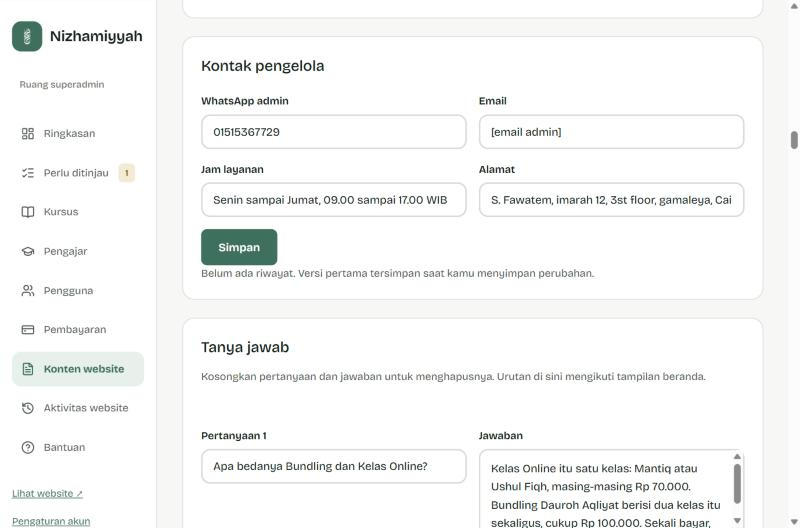
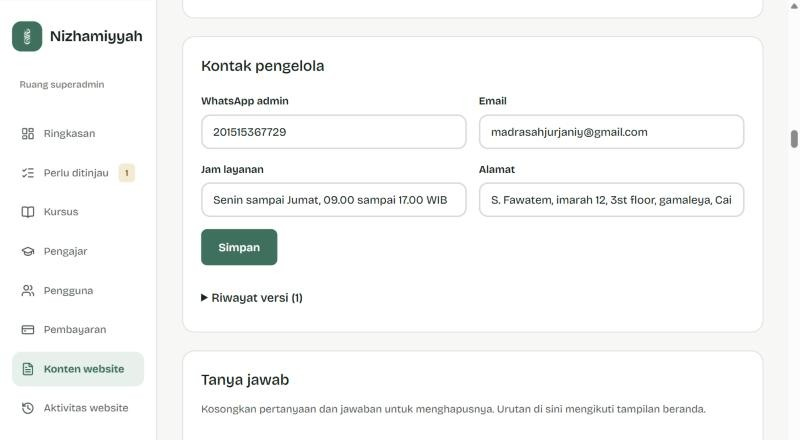
Tutorial dirapikan: bagian dikelompokkan per topik, daftar isi menempel dengan penanda posisi, pintasan tugas, langkah bernomor, gambar bisa diperbesar, screenshot diperbarui

diff --git a/web/src/styles/tutorial.css b/web/src/styles/tutorial.css
@@ -1,27 +1,94 @@
-.tutorial {padding-top:24px; padding-bottom:64px}
-.tutorial-gate {max-width:420px; margin:12vh auto 0; display:grid; gap:12px}
-.tutorial-gate h1 {font-size:30px; line-height:1.2}
+/* Gerbang PIN */
+.tutorial-gate {min-height:100dvh; display:grid; place-items:center; padding-top:24px; padding-bottom:24px}
+.tutorial-gate > .card {width:100%; max-width:420px; display:grid; gap:12px}
+.tutorial-gate-icon {width:46px; height:46px; display:grid; place-items:center; border-radius:12px; background:var(--brand-soft); color:var(--brand)}
+.tutorial-gate h1 {font-size:28px; line-height:1.2}
 .tutorial-gate-form {display:grid; gap:14px; margin-top:4px}
-.tutorial-wrap {max-width:820px; margin:0 auto; display:grid; gap:20px; justify-items:stretch}
-.tutorial-wrap > .btn {justify-self:start}
-.tutorial-head {display:grid; gap:12px; padding:12px 0}
-.tutorial-head h1 {font-size:clamp(30px,5vw,42px); line-height:1.15}
-.tutorial-head p:not(.eyebrow) {font-size:17px; line-height:1.65}
-.tutorial-toc h2 {margin-bottom:12px}
-.tutorial-toc ol {margin:0; padding-left:24px; list-style:decimal; columns:2; column-gap:32px}
-.tutorial-toc li {display:list-item; padding:5px 0; break-inside:avoid}
-.tutorial-toc a {text-decoration:underline; text-underline-offset:3px}
-.tutorial-guide {display:grid; gap:12px; justify-items:stretch; scroll-margin-top:16px}
-.tutorial-guide > .btn {justify-self:start}
-.tutorial-guide > p:not(.eyebrow), .tutorial-steps p {line-height:1.65}
-.tutorial-steps {margin:4px 0 8px; padding-left:24px; display:grid; gap:16px; list-style:decimal}
-.tutorial-steps li {display:list-item; min-width:0}
-.tutorial-note {line-height:1.6}
-.tutorial-end {padding:8px 0; line-height:1.65}
-@media (max-width:640px) {
-  .tutorial-toc ol {columns:1}
+
+/* Pembuka */
+.tutorial {padding-bottom:72px}
+.tutorial-hero {background:#1e715c; color:#fff; padding-top:24px; padding-bottom:36px}
+.tutorial-hero-in {max-width:1180px; margin:0 auto}
+.tutorial-back {display:inline-flex; align-items:center; gap:8px; min-height:44px; color:#e5f0e8; text-decoration:none; font-size:14px; font-weight:600}
+.tutorial-back:hover {color:#fff; text-decoration:underline; text-underline-offset:3px}
+.tutorial-eyebrow {margin-top:18px; font-size:13px; font-weight:700; letter-spacing:.12em; text-transform:uppercase; color:#f6e7b4}
+.tutorial-hero h1 {margin-top:8px; color:#fff; font-size:clamp(32px,5vw,48px); line-height:1.1; letter-spacing:-.02em}
+.tutorial-lead {margin-top:14px; max-width:62ch; font-size:17px; line-height:1.65; color:#e5f0e8}
+.tutorial-quick {margin-top:26px; display:grid; grid-template-columns:repeat(3,minmax(0,1fr)); gap:12px}
+.tutorial-quick a {position:relative; display:flex; flex-direction:column; gap:6px; padding:18px 44px 18px 18px; border-radius:14px; background:#fff; color:var(--ink); text-decoration:none; transition:transform .15s}
+.tutorial-quick a:hover {transform:translateY(-2px)}
+.tutorial-quick b {font-size:15px; line-height:1.35}
+.tutorial-quick span {font-size:13px; line-height:1.5; color:var(--muted-text)}
+.tutorial-quick svg {position:absolute; right:16px; top:18px; color:var(--brand)}
+
+/* Susunan halaman */
+.tutorial-layout {max-width:1180px; margin:0 auto; padding-top:32px; display:grid; grid-template-columns:250px minmax(0,1fr); gap:40px; align-items:start; box-sizing:content-box}
+.tutorial-side {position:sticky; top:20px; max-height:calc(100dvh - 40px); overflow-y:auto}
+.tutorial-body {display:grid; gap:44px; min-width:0}
+.tutorial-legend {display:flex; gap:12px; align-items:flex-start; padding:14px 16px; border:1px solid var(--line); border-radius:12px; background:#fff; font-size:14px; line-height:1.55}
+.tutorial-legend-box {flex:none; width:24px; height:18px; margin-top:2px; border:2.5px solid #E5484D; border-radius:5px}
+
+/* Daftar isi */
+.tn-list {display:grid; gap:18px}
+.tn-group {margin-bottom:4px; font-size:12px; font-weight:700; letter-spacing:.06em; text-transform:uppercase; color:var(--muted-text)}
+.tn-list ul {list-style:none; margin:0; padding:0; display:grid; gap:1px}
+.tn-list a {display:block; padding:7px 10px; border-radius:8px; color:var(--ink); font-size:14px; line-height:1.35; text-decoration:none}
+.tn-list a:hover {background:var(--shell)}
+.tn-list a[aria-current] {background:var(--brand-soft); color:var(--brand); font-weight:700}
+.tn-mobile {display:none}
+
+/* Kelompok dan panduan */
+.tutorial-group {display:grid; gap:16px}
+.tutorial-group-head {display:flex; gap:14px; align-items:center}
+.tutorial-group-head > span {flex:none; width:46px; height:46px; display:grid; place-items:center; border-radius:12px; background:var(--brand-soft); color:var(--brand)}
+.tutorial-group-head h2 {font-size:24px; line-height:1.2}
+.tutorial-group-head p {margin-top:2px; font-size:14px; line-height:1.45; color:var(--muted-text)}
+.tutorial-guide {display:grid; gap:12px; padding:26px; scroll-margin-top:20px}
+.tutorial-guide h3 {font-size:21px; line-height:1.25}
+.tutorial-intro {line-height:1.65; color:var(--muted-text)}
+
+/* Langkah bernomor */
+.tutorial-steps {counter-reset:langkah; list-style:none; margin:8px 0 4px; padding:0; display:grid; gap:0}
+.tutorial-steps > li {counter-increment:langkah; position:relative; display:block; min-width:0; padding:0 0 22px 44px}
+.tutorial-steps > li:last-child {padding-bottom:0}
+.tutorial-steps > li::before {content:counter(langkah); position:absolute; left:0; top:0; width:30px; height:30px; display:grid; place-items:center; border-radius:50%; background:var(--brand); color:#fff; font-size:14px; font-weight:700}
+.tutorial-steps > li:not(:last-child)::after {content:""; position:absolute; left:14px; top:34px; bottom:4px; width:2px; background:var(--line)}
+.tutorial-steps p {padding-top:3px; line-height:1.65}
+.tutorial-shot {display:block; margin-top:12px; border:1px solid var(--line); border-radius:10px; overflow:hidden; cursor:zoom-in; transition:box-shadow .15s}
+.tutorial-shot:hover {box-shadow:0 8px 24px -12px rgba(16,32,26,.45)}
+.tutorial-shot img {display:block; width:100%; height:auto}
+.tutorial-note {padding:13px 15px; border-radius:10px; background:var(--warning-soft); font-size:14px; line-height:1.6}
+.tutorial-guide-foot {margin-top:6px; padding-top:16px; border-top:1px solid var(--line); display:flex; flex-wrap:wrap; align-items:center; justify-content:space-between; gap:12px}
+.tutorial-next {display:flex; flex-direction:column; text-align:right; margin-left:auto; color:var(--brand); font-size:14px; font-weight:600; line-height:1.35; text-decoration:none}
+.tutorial-next small {font-size:12px; font-weight:500; color:var(--muted-text)}
+.tutorial-next:hover {text-decoration:underline; text-underline-offset:3px}
+.tutorial-end {padding:18px 20px; border-radius:12px; background:var(--brand-soft); line-height:1.65}
+
+@media (max-width:900px) {
+  .tutorial-quick {grid-template-columns:1fr}
+  .tutorial-layout {display:block; padding-top:0; box-sizing:border-box}
+  .tutorial-side {position:sticky; top:0; z-index:20; max-height:none; overflow:visible; margin:0 calc(max(16px,4vw) * -1) 22px; padding:0 max(16px,4vw); background:var(--shell); border-bottom:1px solid var(--line)}
+  .tn-desktop {display:none}
+  .tn-mobile {display:block}
+  .tn-mobile summary {list-style:none; display:flex; align-items:center; justify-content:space-between; gap:12px; min-height:58px; font-size:14px; font-weight:700; cursor:pointer}
+  .tn-mobile summary::-webkit-details-marker {display:none}
+  .tn-mobile summary span {min-width:0; display:flex; flex-direction:column; line-height:1.3}
+  .tn-mobile summary small {font-size:11px; font-weight:500; color:var(--muted-text)}
+  .tn-mobile[open] summary svg {transform:rotate(180deg)}
+  .tn-mobile nav {max-height:65dvh; overflow-y:auto; padding-bottom:14px}
+  .tutorial-body {padding-top:0}
+  .tutorial-guide {padding:20px; scroll-margin-top:72px}
+}
+@media (max-width:520px) {
+  .tutorial-steps > li {padding-left:0; padding-bottom:24px}
+  .tutorial-steps > li::before {position:static; display:inline-grid; margin-bottom:6px}
+  .tutorial-steps > li:not(:last-child)::after {display:none}
+}
+@media (prefers-reduced-motion:reduce) {
+  .tutorial-quick a, .tutorial-shot {transition:none}
 }
 @media print {
-  .tutorial-wrap > .btn, .tutorial-guide > .btn {display:none}
+  .tutorial-side, .tutorial-back, .tutorial-quick, .tutorial-guide-foot {display:none}
+  .tutorial-layout {display:block}
   .tutorial-guide {break-inside:avoid; box-shadow:none; border:1px solid var(--line)}
 }

diff --git a/web/src/app/tutorial/page.tsx b/web/src/app/tutorial/page.tsx
@@ -1,5 +1,5 @@
 import Link from "next/link";
-import { ArrowLeft, ArrowRight } from "lucide-react";
+import { ArrowLeft, ArrowRight, BookOpen, Compass, CreditCard, FileText, History, Lock } from "lucide-react";
 import { cookies } from "next/headers";
 import "@/styles/tutorial.css";
 import { ActionForm, Field } from "@/components/ActionForm";
@@ -7,21 +7,24 @@ import { getCurrentUser } from "@/lib/auth-guard";
 import { withBase } from "@/lib/base-path";
 import { TUTORIAL_COOKIE, tutorialToken } from "@/lib/tutorial-pin";
 import { unlockTutorial } from "./actions";
-import { GUIDES } from "./guides";
+import { GROUPS, GUIDES, QUICK_LINKS } from "./guides";
+import { TutorialNav } from "./TutorialNav";
 
 export const dynamic = "force-dynamic";
 export const metadata = { title: "Tutorial superadmin", robots: { index: false, follow: false } };
+
+const GROUP_ICONS = [Compass, BookOpen, CreditCard, FileText, History];
 
 export default async function TutorialPage() {
   const [user, store] = await Promise.all([getCurrentUser(), cookies()]);
   const isAdmin = user?.role === "ADMIN";
   if (!isAdmin && store.get(TUTORIAL_COOKIE)?.value !== tutorialToken()) {
     return (
-      <main id="isi" className="tutorial gutter">
-        <section className="card pad tutorial-gate">
-          <p className="eyebrow">Tutorial superadmin</p>
+      <main id="isi" className="tutorial-gate gutter">
+        <section className="card pad">
+          <span className="tutorial-gate-icon"><Lock size={22} aria-hidden="true" /></span>
           <h1>Masukkan PIN</h1>
-          <p>Halaman ini memakai PIN. Silakan masukkan PIN yang sudah saya berikan.</p>
+          <p>Halaman tutorial ini memakai PIN. Silakan masukkan PIN yang sudah saya berikan.</p>
           <ActionForm action={unlockTutorial} submit="Buka tutorial" pendingText="Memeriksa…" className="tutorial-gate-form">
             <Field name="pin" label="PIN" type="password" maxLength={20} full />
           </ActionForm>
@@ -29,39 +32,75 @@ export default async function TutorialPage() {
       </main>
     );
   }
+
+  const groups = GROUPS.map((g) => ({ ...g, guides: g.ids.flatMap((id) => GUIDES.filter((x) => x.id === id)) }));
+  const ordered = groups.flatMap((g) => g.guides);
   return (
-    <main id="isi" className="tutorial gutter">
-      <div className="tutorial-wrap">
-        {isAdmin && <Link className="btn btn-ghost sm" href="/admin"><ArrowLeft size={16} aria-hidden="true" /> Kembali ke panel</Link>}
-        <header className="tutorial-head">
-          <p className="eyebrow">Tutorial superadmin</p>
+    <main id="isi" className="tutorial">
+      <header className="tutorial-hero gutter">
+        <div className="tutorial-hero-in">
+          <Link className="tutorial-back" href={isAdmin ? "/admin" : "/"}><ArrowLeft size={16} aria-hidden="true" /> {isAdmin ? "Kembali ke panel" : "Ke beranda"}</Link>
+          <p className="tutorial-eyebrow">Tutorial superadmin</p>
           <h1>Cara mengatur website</h1>
-          <p>Assalamu&apos;alaikum, Sidi. Di halaman ini saya tunjukkan cara mengatur website langkah demi langkah, supaya Sidi bisa mengerjakannya sendiri tanpa perlu menunggu orang lain.</p>
-          <p>Tidak perlu dibaca berurutan. Pilih saja yang sedang Sidi butuhkan dari daftar di bawah. Gambarnya diambil dari panel yang asli, dan bagian yang perlu ditekan saya beri kotak merah. Nama, email, dan angka pendapatan sengaja saya samarkan.</p>
-        </header>
-        <nav className="card pad tutorial-toc" aria-label="Daftar isi tutorial">
-          <h2>Mau mengerjakan apa, Sidi?</h2>
-          <ol>{GUIDES.map((g) => <li key={g.id}><a href={`#${g.id}`}>{g.title}</a></li>)}</ol>
-        </nav>
-        {GUIDES.map((g, i) => (
-          <section className="card pad tutorial-guide" id={g.id} key={g.id}>
-            <p className="eyebrow">Bagian {i + 1}</p>
-            <h2>{g.title}</h2>
-            <p>{g.intro}</p>
-            <ol className="tutorial-steps">
-              {g.steps.map((s) => (
-                <li key={s.text}>
-                  <p>{s.text}</p>
-                  {/* eslint-disable-next-line @next/next/no-img-element */}
-                  {s.shot && <img className="help-shot" src={withBase(`/tutorial/${s.shot}.jpg`)} alt={s.alt ?? ""} width={800} height={528} loading="lazy" />}
-                </li>
-              ))}
-            </ol>
-            {g.note && <p className="alert tutorial-note"><strong>Perlu diingat:</strong> {g.note}</p>}
-            {g.href && <Link className="btn btn-ghost sm" href={g.href}>Buka halamannya <ArrowRight size={16} aria-hidden="true" /></Link>}
-          </section>
-        ))}
-        <p className="tutorial-end">Kalau ada yang masih membingungkan atau ada tampilan yang berbeda dari gambar di sini, kabari saya saja, Sidi. Semoga bermanfaat.</p>
+          <p className="tutorial-lead">Assalamu&apos;alaikum, Sidi. Di sini saya tunjukkan cara mengatur website langkah demi langkah, supaya Sidi bisa mengerjakannya sendiri. Tidak perlu dibaca berurutan, langsung pilih yang sedang dibutuhkan saja.</p>
+          <div className="tutorial-quick">
+            {QUICK_LINKS.map((q) => (
+              <a key={q.id} href={`#${q.id}`}>
+                <b>{q.title}</b>
+                <span>{q.text}</span>
+                <ArrowRight size={18} aria-hidden="true" />
+              </a>
+            ))}
+          </div>
+        </div>
+      </header>
+
+      <div className="tutorial-layout gutter">
+        <aside className="tutorial-side">
+          <TutorialNav groups={groups.map((g) => ({ title: g.title, items: g.guides.map((x) => ({ id: x.id, title: x.title })) }))} />
+        </aside>
+        <div className="tutorial-body">
+          <p className="tutorial-legend"><span className="tutorial-legend-box" aria-hidden="true" /> Kotak merah di gambar menandai bagian yang perlu ditekan. Nama, email, dan angka pendapatan sengaja saya samarkan. Gambar bisa ditekan untuk diperbesar.</p>
+          {groups.map((g, gi) => {
+            const Icon = GROUP_ICONS[gi] ?? Compass;
+            return (
+              <section className="tutorial-group" key={g.title} aria-labelledby={`grup-${gi}`}>
+                <header className="tutorial-group-head">
+                  <span aria-hidden="true"><Icon size={22} /></span>
+                  <div><h2 id={`grup-${gi}`}>{g.title}</h2><p>{g.text}</p></div>
+                </header>
+                {g.guides.map((guide) => {
+                  const next = ordered[ordered.indexOf(guide) + 1];
+                  return (
+                    <article className="card tutorial-guide" id={guide.id} key={guide.id}>
+                      <h3>{guide.title}</h3>
+                      <p className="tutorial-intro">{guide.intro}</p>
+                      <ol className="tutorial-steps">
+                        {guide.steps.map((s) => (
+                          <li key={s.text}>
+                            <p>{s.text}</p>
+                            {s.shot && (
+                              <a className="tutorial-shot" href={withBase(`/tutorial/${s.shot}.jpg`)} target="_blank" rel="noopener noreferrer" aria-label={`Perbesar gambar: ${s.alt ?? guide.title}`}>
+                                {/* eslint-disable-next-line @next/next/no-img-element */}
+                                <img src={withBase(`/tutorial/${s.shot}.jpg`)} alt={s.alt ?? ""} width={800} height={528} loading="lazy" />
+                              </a>
+                            )}
+                          </li>
+                        ))}
+                      </ol>
+                      {guide.note && <p className="tutorial-note"><strong>Perlu diingat:</strong> {guide.note}</p>}
+                      <footer className="tutorial-guide-foot">
+                        {guide.href ? <Link className="btn btn-primary sm" href={guide.href}>Buka halamannya <ArrowRight size={16} aria-hidden="true" /></Link> : <span />}
+                        {next && <a className="tutorial-next" href={`#${next.id}`}><small>Berikutnya</small>{next.title}</a>}
+                      </footer>
+                    </article>
+                  );
+                })}
+              </section>
+            );
+          })}
+          <p className="tutorial-end">Kalau ada yang masih membingungkan, atau ada tampilan yang berbeda dari gambar di sini, kabari saya saja, Sidi. Semoga bermanfaat.</p>
+        </div>
       </div>
     </main>
   );

diff --git a/web/src/app/tutorial/TutorialNav.tsx b/web/src/app/tutorial/TutorialNav.tsx
@@ -1,0 +1,48 @@
+"use client";
+import { useEffect, useRef, useState } from "react";
+import { ChevronDown } from "lucide-react";
+
+type NavGroup = { title: string; items: { id: string; title: string }[] };
+
+/** Daftar isi: menempel di samping pada layar lebar, jadi menu lipat di atas pada HP. Bagian yang sedang dibaca ditandai. */
+export function TutorialNav({ groups }: { groups: NavGroup[] }) {
+  const [active, setActive] = useState(groups[0]?.items[0]?.id ?? "");
+  const mobile = useRef<HTMLDetailsElement>(null);
+
+  useEffect(() => {
+    const sections = groups.flatMap((g) => g.items).map((i) => document.getElementById(i.id)).filter((el): el is HTMLElement => Boolean(el));
+    const io = new IntersectionObserver((entries) => {
+      const seen = entries.filter((e) => e.isIntersecting);
+      if (seen.length) setActive(seen[seen.length - 1].target.id);
+    }, { rootMargin: "-20% 0px -70% 0px" });
+    sections.forEach((s) => io.observe(s));
+    return () => io.disconnect();
+  }, [groups]);
+
+  const activeTitle = groups.flatMap((g) => g.items).find((i) => i.id === active)?.title;
+  const list = (
+    <div className="tn-list">
+      {groups.map((g) => (
+        <div key={g.title}>
+          <p className="tn-group">{g.title}</p>
+          <ul>
+            {g.items.map((i) => (
+              <li key={i.id}>
+                <a href={`#${i.id}`} aria-current={i.id === active ? "location" : undefined} onClick={() => { if (mobile.current) mobile.current.open = false; }}>{i.title}</a>
+              </li>
+            ))}
+          </ul>
+        </div>
+      ))}
+    </div>
+  );
+  return (
+    <>
+      <details className="tn-mobile" ref={mobile}>
+        <summary><span><small>Daftar isi</small>{activeTitle}</span><ChevronDown size={18} aria-hidden="true" /></summary>
+        <nav aria-label="Daftar isi tutorial">{list}</nav>
+      </details>
+      <nav className="tn-desktop" aria-label="Daftar isi tutorial">{list}</nav>
+    </>
+  );
+}

diff --git a/web/src/app/tutorial/guides.ts b/web/src/app/tutorial/guides.ts
@@ -2,6 +2,21 @@
 export type TutorialStep = { text: string; shot?: string; alt?: string };
 export type TutorialGuide = { id: string; title: string; intro: string; href?: string; steps: TutorialStep[]; note?: string };
 
+export const GROUPS: { title: string; text: string; ids: string[] }[] = [
+  { title: "Mulai dari sini", text: "Cara masuk dan hal yang paling sering dibuka setiap hari.", ids: ["masuk", "ringkasan", "tinjau", "cari"] },
+  { title: "Kursus dan pengajar", text: "Dari membuat kelas baru sampai siap ditonton pembeli.", ids: ["kursus-baru", "pelajaran", "harga", "arsip", "pengajar"] },
+  { title: "User dan pembayaran", text: "Mengatur akses, peran, dan tagihan yang perlu diperiksa.", ids: ["akses", "peran", "pembayaran"] },
+  { title: "Isi website", text: "Tulisan, gambar, kontak, dan kebijakan yang dilihat pengunjung.", ids: ["beranda", "gambar", "kontak", "kebijakan"] },
+  { title: "Riwayat dan catatan", text: "Kalau ada yang salah ubah, atau ingin tahu siapa yang mengubah.", ids: ["riwayat", "aktivitas"] },
+];
+
+/** Pintasan di bagian atas untuk tugas yang paling sering dicari. */
+export const QUICK_LINKS = [
+  { id: "kursus-baru", title: "Saya mau menambah kelas", text: "Buat kursus, isi pelajaran, lalu tayangkan." },
+  { id: "pembayaran", title: "Ada yang sudah bayar tapi kelasnya belum terbuka", text: "Periksa tagihannya, lalu buka aksesnya." },
+  { id: "beranda", title: "Saya mau mengubah tulisan di website", text: "Ubah teks beranda, menu, sampai footer." },
+];
+
 export const GUIDES: TutorialGuide[] = [
   {
     id: "masuk",
